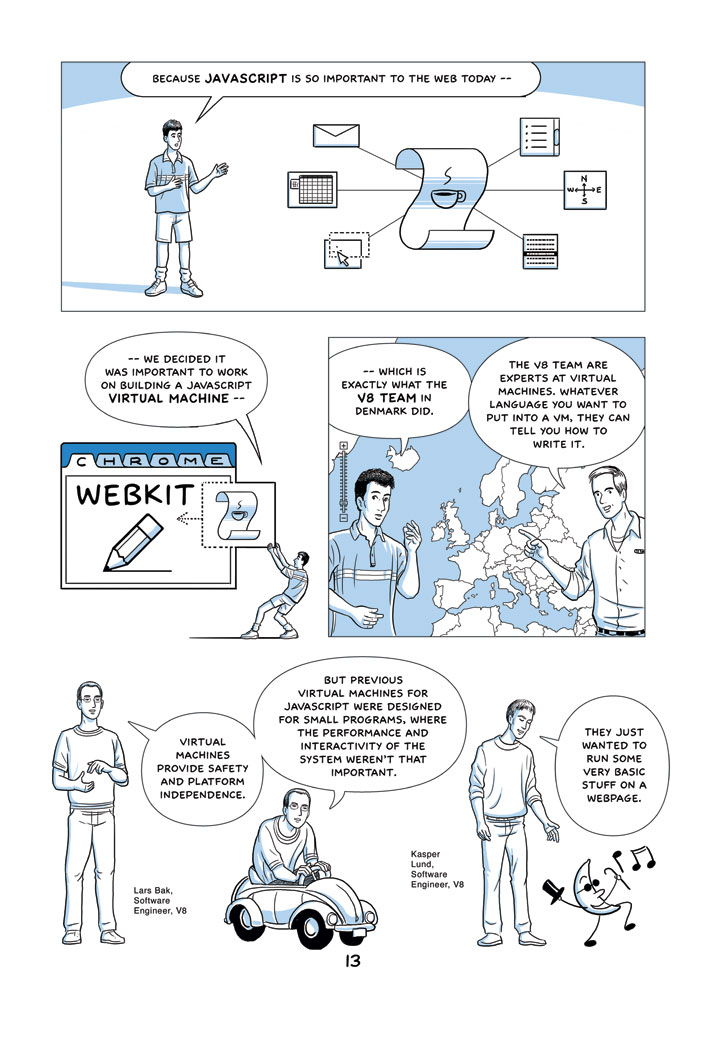
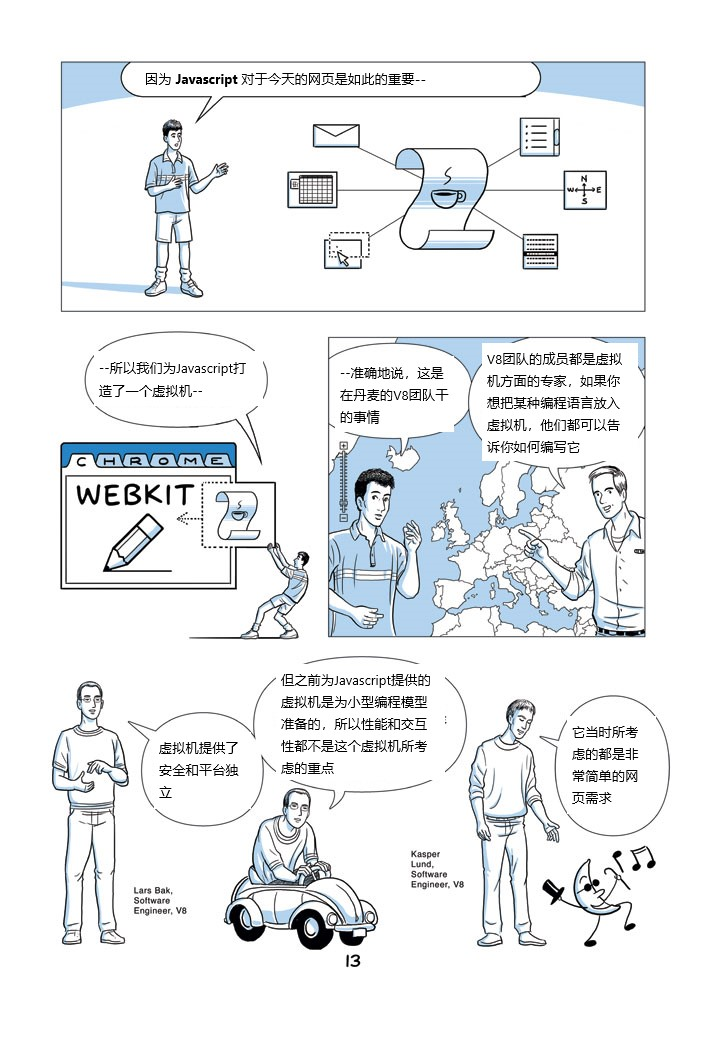
page 29

diff --git a/README.md b/README.md
@@ -141,6 +141,378 @@ placing blame where blame belongs
 
 ---
 
-google chrome是一种巨大的、复杂的产品,将需要加载数十亿不同的网络页面,所以测试是至关重要的
+google chrome是一种巨大的、复杂的产品,会加载数十亿不同的网络页面,所以测试是至关重要的
 
 幸运的是,在google,我们有一个同样巨大的基础设施用于WEB页面爬虫
+
+浏览器每次构建的20-30分钟内，我们就可以在成千上万个不同的网页上测试它。
+
+每周，“chrome 测试机器人”都要测试数百万次的页面，尽早给我们的开发人员测试结果，否则他们就要等待BEAT测试。
+
+关键是尽早地发现bug，发现得越早，解决的成本就越小，如果过了几天，bug就难以跟踪了
+
+更早地发现bug也有利于工程师解决它们，工程师会说，“OH，这个bug是这种模式的一部分”,下一次，他们就不会这样干了
+
+---
+
+10亿个
+
+当然，现在有数十亿个网页，也许是数万亿个。如果每个构建只测试一百万个网页，我们如何选择呢？
+
+幸运的是，我们对这个问题也有一个专门的处理
+
+我们已经对一般用户最有可能访问的页面进行了排序
+
+至少我们将确保chrome在人们每天访问各种网站上运行得很好
+
+针对每次发布我们有几种测试方法，既有针对代码片段的单元测试--
+
+--也有针对用户行为的自动化脚本测试--
+
+--还有混沌测试，例如随机输入一些乱七八糟的东西
+
+---
+
+in layout testing, webkit found that producing a schematic of what the browser thinks it's displaying is a more precise way to compare layouts than taking screenshots and creating a cryptographic hash
+
+在布局测试中，webkit发现，将浏览器认为自己正在显示的内容制作成示意图，是一种比截图和创建加密哈希值更精确的比较布局的方法
+
+when we started we were passing 23% of webkit's layout tests. moving from there to 99% has been a fun challenge and an interesting example of test-driven design
+
+当我们开始的时候，我们只通过了23%的webkit布局测试。后来到达了99%，这是一个有趣的挑战，也是测试驱动设计的一个生动案例
+
+我们在自动化测试方面能够做的很有限
+
+例如，我们不能测试需要密码的网站
+
+人们使用浏览器也不一定按照设计者所设计的方式
+
+很难达到100%，但这是我们尽力做的目标
+
+我不关心少数几个很酷的功能，我要做的是把这个产品打造成岩石一样牢固
+
+---
+
+google chrome所使用的渲染引擎是WEBKIT,它是开源的
+
+它的速度之快给我们留下了深刻印象
+
+我们曾经问过在google内部的android团队，“你们为什么使用webkit？”
+
+他们回答，webkit能更有效率地使用内存，很适合嵌入式设备，对于新的浏览器开发者很容易掌握和使用
+
+浏览器很复杂，但webit的一项优点就是让浏览器变得简单
+
+---
+
+因为 Javascript 对于今天的网页是如此的重要--
+
+--所以我们为Javascript打造了一个虚拟机--
+
+--准确地说，这是在丹麦的V8团队干的事情
+
+V8团队的成员都是虚拟机方面的专家，如果你想把某种编程语言放入虚拟机，他们都可以告诉你如何编写它
+
+虚拟机提供了安全和平台独立
+
+但之前为Javascript提供的虚拟机是为小型编程模型准备的，所以性能和交互性都不是这个虚拟机所考虑的重点
+
+它当时所考虑的都是非常简单的网页需求
+
+---
+
+但如今，像Gmail这样的网页应用操作起文档对象模型和 Javascript 的需求可不是开玩笑的--
+
+and that simplistic approach to javascript engines isn't enough anymore
+
+--一个简单功能的javascript引擎已经不够用了，我们考虑重新写一个
+
+开始之前我们不是写代码，而且进行头脑风暴，考虑如何让它运行得很快--
+
+--例如引入隐藏类转换(HIDDEN CLASS TRANSITIONS)
+
+Javascript本身是没有类的(kursk注：prototype感觉被无视了)，你可以创造一个对象，然后动态地增加它的属性(kursk注：动态语言的缺点or优点？)
+
+但是在V8中，当程序正在运行时，有相同属性的对象在生命终结之前，可以共享相同的隐藏类，并且我们可以利用这一点做动态优化
+
+another factor in v8's speed is dynamic code generation
+
+v8 速度快的另一个因素是动态代码生成
+
+当其它 javascript 引擎运行时，它查看的是javascript的源代码，所以要先解析(interpret)源代码
+
+---
+
+when you have to do interpretation, you have to look at the structure of your internal representation over and over again
+
+而当做解析时，你必须一遍又一遍地查看内部的内部表征结构(structure of your internal representation)
+
+V8与此不同，V8将浏览器的Javascript源代码转换编译成可以直接在CPU上运行的机器码
+
+当你一次解析和编译机器码时，
+这个代码就是你javascript源代码的表征
+它不需要被解析，它已经可以运行了
+
+最后一个当前的javascript引擎的核心设计问题是--
+
+--槽糕的垃圾回收机制
+
+javascript和其它的现代面向对象编程语言都有自动内存管理机制
+
+当一个对象没有任何指针引用它时，它就可以被回收了，这就是垃圾回收——一个微不足道的进程
+
+但现在的javascript虚拟机中，使用的是保守的垃圾回收机制--
+
+---
+
+保守意味着你不能精确地知道所有指针的指向
+
+当你遍历执行栈(execution stack)查找看起来像指针的字时
+
+你有时可能会感到疑惑，如果碰巧在对象堆(object heap)中一个整型数(integers)的值与一个对象的地址相同，你就会问，这东西到底是不是指针？
+
+在V8中，我们使用精确的垃圾回收机制，我们精确地知道栈中所有的指针的位置，这给了我们很多便利
+
+一是我们可以通过重写一个指针从而改变一个对象的位置
+
+二是因为我们精确地知道指针的位置，所以可以实现增量垃圾回收
+
+这意味着一种更快的垃圾回收机制，对于100M数据的垃圾回收，原来的方式可能引起秒级暂停，而采用增量垃圾回收机制是非常少的毫秒级
+
+---
+
+这意味这更好的网页应用交互体验，例如更平滑的拖拽操作
+
+V8有一个特别为google chrome准备的API，但V8引擎的核心是与google chrome独立的
+
+所以，其它的浏览器也可以采用V8引擎--
+
+--或者，如果其它项目也使用Javascript，该项目的开发者也可以采用V8
+
+我们希望V8的性能可以成为一个记录，其他开发团队可以继续这个游戏，挑战新的记录
+
+because if you look at any other system that's become faster over time, what happens is that you get bigger, better, more inventive apps
+
+因为如果你回顾一下任何随着时间变得更快的系统，这些应用程序都是变得更大、更好、更有创造性！
+
+---
+
+一 1 - 9
+
+二 10 - 17 
+
+---
+
+在google chrome上用户使用最多的就是TAB页
+
+as soon as we started thinking about it that way, the design naturally followed
+
+所以我们从一开始就打算重点设计TAB页
+
+我们开始着手重构TAB的交互截面，比如把它移到了顶端
+
+我们分离了各个TAB页，实现这个设计很简单，因为浏览器和TAB页的进程是独立的
+
+我们还让TAB页可以从一个窗口拖到另一个窗口
+
+---
+
+因为TAB页是最重要的交互部分，所以每个TAB页都属于自己的控制模块
+
+也有属于自己的地址栏
+
+around here we've been calling the 'OMNIBOX'
+
+在这里，我们一直称之为 "OMNIBOX"
+
+OMNIBOX可不仅仅是地址栏
+
+它还提供了搜索建议，你之前访问的最多的页面，你没有访问过但热度很高的页面......
+
+还包括你所有的搜索历史，如果你昨天发现了一个不错的数字相机的网站，你不必查询书签，
+
+仅仅输入“数字相机”就能快速回到这个网站
+
+---
+
+when the team suggested autocompletion in line, I said I hated it when browsers stick all this crap into a location bar as I'm typing . it's never what I want.
+
+当团队建议在行中提供自动补全的功能时，我说我讨厌浏览器在我打字时把所有这些垃圾塞进位置栏,这绝不是我想要的
+
+but, they said, no, no, it'll be fine, trust us -- and they went on and made it something really compelling...
+
+但是，他们说，不，不，会好的，相信我们 -- 他们继续做了一些非常引人注目的东西......
+
+inline completions will never flicker, never flash. it's perfectly, aesthetically non-distracting
+
+自动补全的内容永远不会闪烁，永远不会闪动，它是完美的，用户使用时不会分散注意力
+
+plus, it'll only autocomplete to something you've explicitly typed before
+
+另外，它只会自动补全你之前明确输入的内容
+
+例如，输入一个"C",再按下回车键，你就可以访问cnn.com了
+
+而不是输入下面这么一堆字符
+
+并且当你在亚马逊、维基百科、google等网站的搜索框上搜索时
+
+你输入的搜索内容也会被本地的系统所保存
+
+所以你可以用不同的方式来搜索这些网站，你只需要在地址栏上输入搜索引擎的名字，使用tab键选择需要的搜索引擎
+
+---
+
+在大多数的浏览器上打开一个新的TAB页时显示的就是你的主页
+
+有些用户为了能快点打开会将空白页作为主页
+
+但用户每次打开一个TAB页都是有目地，说明用户想访问某个地方
+
+可能用户知道要去哪里，可能用户不知道需要搜索
+
+我们设计了一个能快速展示的页面，帮助用户实现行动目标
+
+我们设计的默认页面是一个新TAB页，上面包括9个最近经常访问的网站--
+ 
+--和你经常搜索的网站
+
+---
+
+你可以在这个TAB页输入你要访问网站的URL，google chrome让这个页面不断调整，不断适应你的行为
+
+你打开它后可能会问，浏览器怎么知道我要访问哪里？然而使用一段时间后，你不知不觉中就会认为他是你的浏览器，他应该了解你
+
+google chrome有一个隐私功能，你可以产生一个“隐匿”窗口，这个窗口的所有行为都不会被google chrome记录，甚至不会记录到你的电脑上
+
+TAB页上发生，TAB页上结束
+
+它是只读模式，你仍然可以访问你的书签，但访问历史不会保存到浏览器上--
+
+--当你关闭窗口时，会话时产生的cookies也会被清除
+
+---
+
+want to keep a surprise gift a secret
+
+浏览过程中如果要跳到其它网站，但又想在原窗口继续处于隐匿模式
+
+仅仅需要继续在任何其它窗口浏览就可以了
+
+在chrome中没有弹窗驱动，JAVASCRIPT已经没有办法突然弹一个窗口打断用户
+
+pop-ups are scoped to the tab they came--
+
+弹出式窗口的范围是它们来自的TAB页--
+
+--from and confined there
+
+--并局限于此
+
+如果有时你想接收弹窗--
+
+--只需要把它拖出来，它 只会显示在它自己的窗口上
+
+---
+
+开发者可以调用浏览器交互界面的子窗口
+
+但是我们想减少对子窗口的使用，我们让网页应用开发者能自己打造行云流水般便捷操作的窗口界面，不需要使用浏览器的工具栏和地址栏
+
+我们不想做任何打断用户的事情
+
+如果你使用浏览器的时候并没有意识到浏览器的存在，那么我们的目标达到了！
+
+---
+
+三 18 - 24
+
+---
+
+恶意软件和网络钓鱼对用户来说是个大问题，影响信任和对网络的信心
+
+当我们开始Google Chrome项目时，我们认识到Chrome面临的情况与其他浏览器开始之时很不相同
+
+当时，浏览器的作用是渲染页面和展示很酷的东西，还没有货币交易这种引起恶意软件偷窃的东西
+
+而现在，在经济利益的驱使下，恶意软件大肆偷窃着密码，干着偷钱的勾当
+
+in thinking about security, we began with the assumption that your browser would get compromised, you will eventually encounter malware
+
+在思考安全问题时，我们开始假设你的浏览器会被破坏
+
+你最终将遇到恶意软件
+
+---
+
+使用沙盒，我们的目标是防止恶意软件在您的计算机上安装自己，或者能够干出超出所在的TAB，影响另一个TAB的事情
+
+所以,对于每一个这些进程中我们剥夺了它们所有的权利
+
+它们可以计算，但是不能在你的硬盘上写文件，也不能从敏感的目录中读文件，例如系统盘的用户文档目录和桌面目录
+
+沙盒被做成了一个--
+
+--限制已经存在的进程的--
+
+--监狱
+
+---
+
+这意味着不能监视你输入信用卡的数字
+
+不能与鼠标操作进行交互
+
+不能读你的税务数据
+
+不能让windows操作系统在开机后启动一个程序
+
+有些坏家伙可能在TAB页中运行--
+
+--但只要你一关掉TAB页，他就没戏了
+
+不能影响你的电脑，也不能影响其他的进程
+
+the perimeter of the sandbox is largely based on permission
+
+沙盒的大小主要根据权限
+
+vista uses a modified version of the biba security model which has three levels
+
+vista使用修改过的BIBA安全模型，有三个级别
+
+非常信任
+
+有时信任
+
+从来不信任
+
+---
+
+备份系统、程序更新这类程序使用“非常信任”等级
+
+所有用户正常运行的程序使用“有时信任”等级，例如记事本、纸牌、计算器…
+
+读操作被允许从低向高--
+
+而写操作仅被允许从高向低
+
+通常，从因特网上接收和处理数据的应用程序被安排到两个较低的等级
+
+问题是“有时信任”等级与高等级不同，有很多敏感信息在这里--
+
+--“从来不信任”等级不应该被允许读“有时信任”等级的内容
+
+---
+
+于是在我们的模型中，我们设计了用户和沙盒沟通机制，任何沟通对象首先必须被用户初始化
+
+沟通对象只能与创建它的用户沟通，不能与其它用户沟通
+
+我们重新写了所有的chrome安全的代码，所以我们可以控制所有的东西
+
+好吧，我承认，插件(PLUGINS)是一个例外
+
+因为网页应用不仅仅是HTML和Javascript
+
+---
